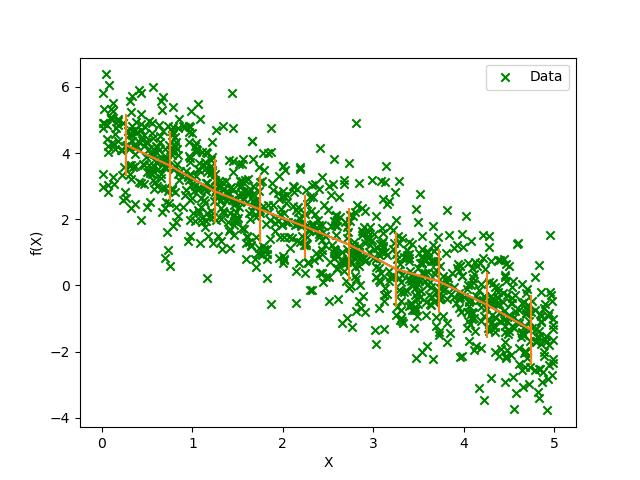
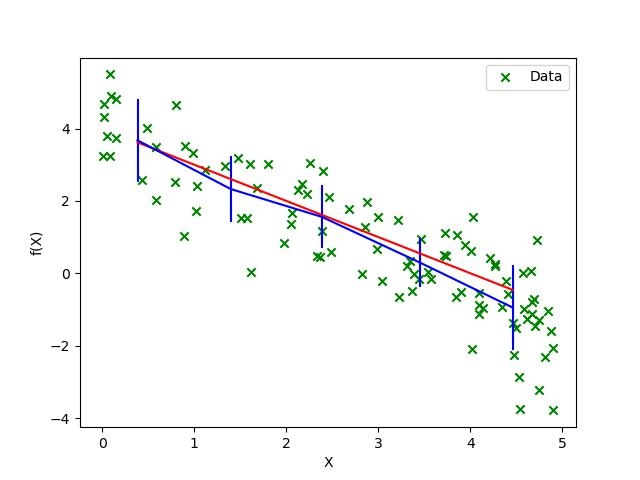
Chi almost finished

diff --git a/Chi_Squared.py b/Chi_Squared.py
@@ -1,7 +1,7 @@
 import numpy as np
 import matplotlib.pylab as pl
 
-input_data=np.loadtxt('data_for_linear_regression_1000.txt')
+input_data=np.loadtxt('data_for_linear_regression.txt')
 
 #Define range of bins
 
@@ -10,18 +10,19 @@ max=input_data[0,0]
 for number in input_data[:,0]:
     if number>=max:
         max=number
-print(max)
+# print(max)
 
 min=input_data[0,0]
 for number in input_data[:,0]:
     if number<=min:
         min=number
-print(min)
+# print(min)
 
 #Number and bins and bin size
-bin_number=int(input('Please enter number of bins '))
+#bin_number=int(input('Please enter number of bins '))
+bin_number=5
 bin_size=(max-min)/bin_number
-print(bin_size)
+# print(bin_size)
 
 #Create a list of all the edge points, distance between them is bin_size
 #Each time you add bin_size to previous number then append to list
@@ -29,7 +30,7 @@ print(bin_size)
 bin_list=[]
 for p in range(bin_number+1):
     bin_list.append(min+(bin_size*p))
-print(bin_list)
+#print(bin_list)
 
 
 #Find all data points in each bin
@@ -59,31 +60,69 @@ for count in range(bin_number):
         if number[0]>bin_list[count] and number[0]<bin_list[count+1] :
             sigma2=sigma2+((number[1]-mean_bin_y)**2)/n_bin
 
-    print(n_bin)
-    print(mean_bin_x)
-    print(mean_bin_y)
-    print(sigma2)
+    # print(n_bin)
+    # print(mean_bin_x)
+    # print(mean_bin_y)
+    # print(sigma2)
     new_data.append([mean_bin_x,mean_bin_y,sigma2])
-print(new_data)
+#print(new_data)
 
 #Make new data vector - binned mean x, mean f(x), standard deviation
 new_data=np.array(new_data)
-print(new_data)
+# print(new_data)
 
 #Plot error bar
 
-pl.plot(new_data[:,0],new_data[:,1])
-pl.scatter(input_data[:,0],input_data[:,1],label='Data',marker='x',c='g')
-pl.errorbar(new_data[:,0],new_data[:,1],yerr=np.sqrt(new_data[:,2]))
-pl.xlabel('X')
-pl.ylabel('f(X)')
-pl.legend()
-pl.savefig('data_cs.jpg')
-pl.show()
+
 
     
 
 #Create a function for Chi Squared
 #- Gets distance between data and theory(best fit) weighted with error bars, smaller bars, less error, more significance
 
-#Chi Squared fitting, Linear Regression - Get best fit line for new binned data vector using chi squared
+
+def chi_squared(t,d,s2):
+    c=((t-d)**2)/s2
+    return c
+
+def linear(a,b,x):
+    t=a*x+b
+    return t
+
+#Make list of possible a and b values
+
+n_grid=10
+a=np.linspace(-1,-2,n_grid)
+b=np.linspace(4,5,n_grid)
+A,B=np.meshgrid(a,b)
+A=A.flatten()
+B=B.flatten()
+# print(A)
+# print(B)
+
+
+#Make line, and then a list of theory values
+a=-1
+b=4
+t_list=[]
+x=new_data[:,0]
+for number in x:
+    t=linear(a,b,number)
+    t_list.append(t)
+# t_list=linear(a,b,x)
+print(t_list)
+
+#Calculate chi sqaured for theory values
+for number in range(bin_number):
+    c=chi_squared(t_list[number],new_data[number,1],new_data[number,2])
+    
+
+#pl.plot(new_data[:,0],new_data[:,1])
+# pl.scatter(input_data[:,0],input_data[:,1],label='Data',marker='x',c='g')
+# pl.errorbar(new_data[:,0],new_data[:,1],yerr=np.sqrt(new_data[:,2]),c='b')
+# pl.plot(new_data[:,0],t_list,c='r')
+# pl.xlabel('X')
+# pl.ylabel('f(X)')
+# pl.legend()
+# pl.savefig('data_cs.jpg')
+# pl.show()
